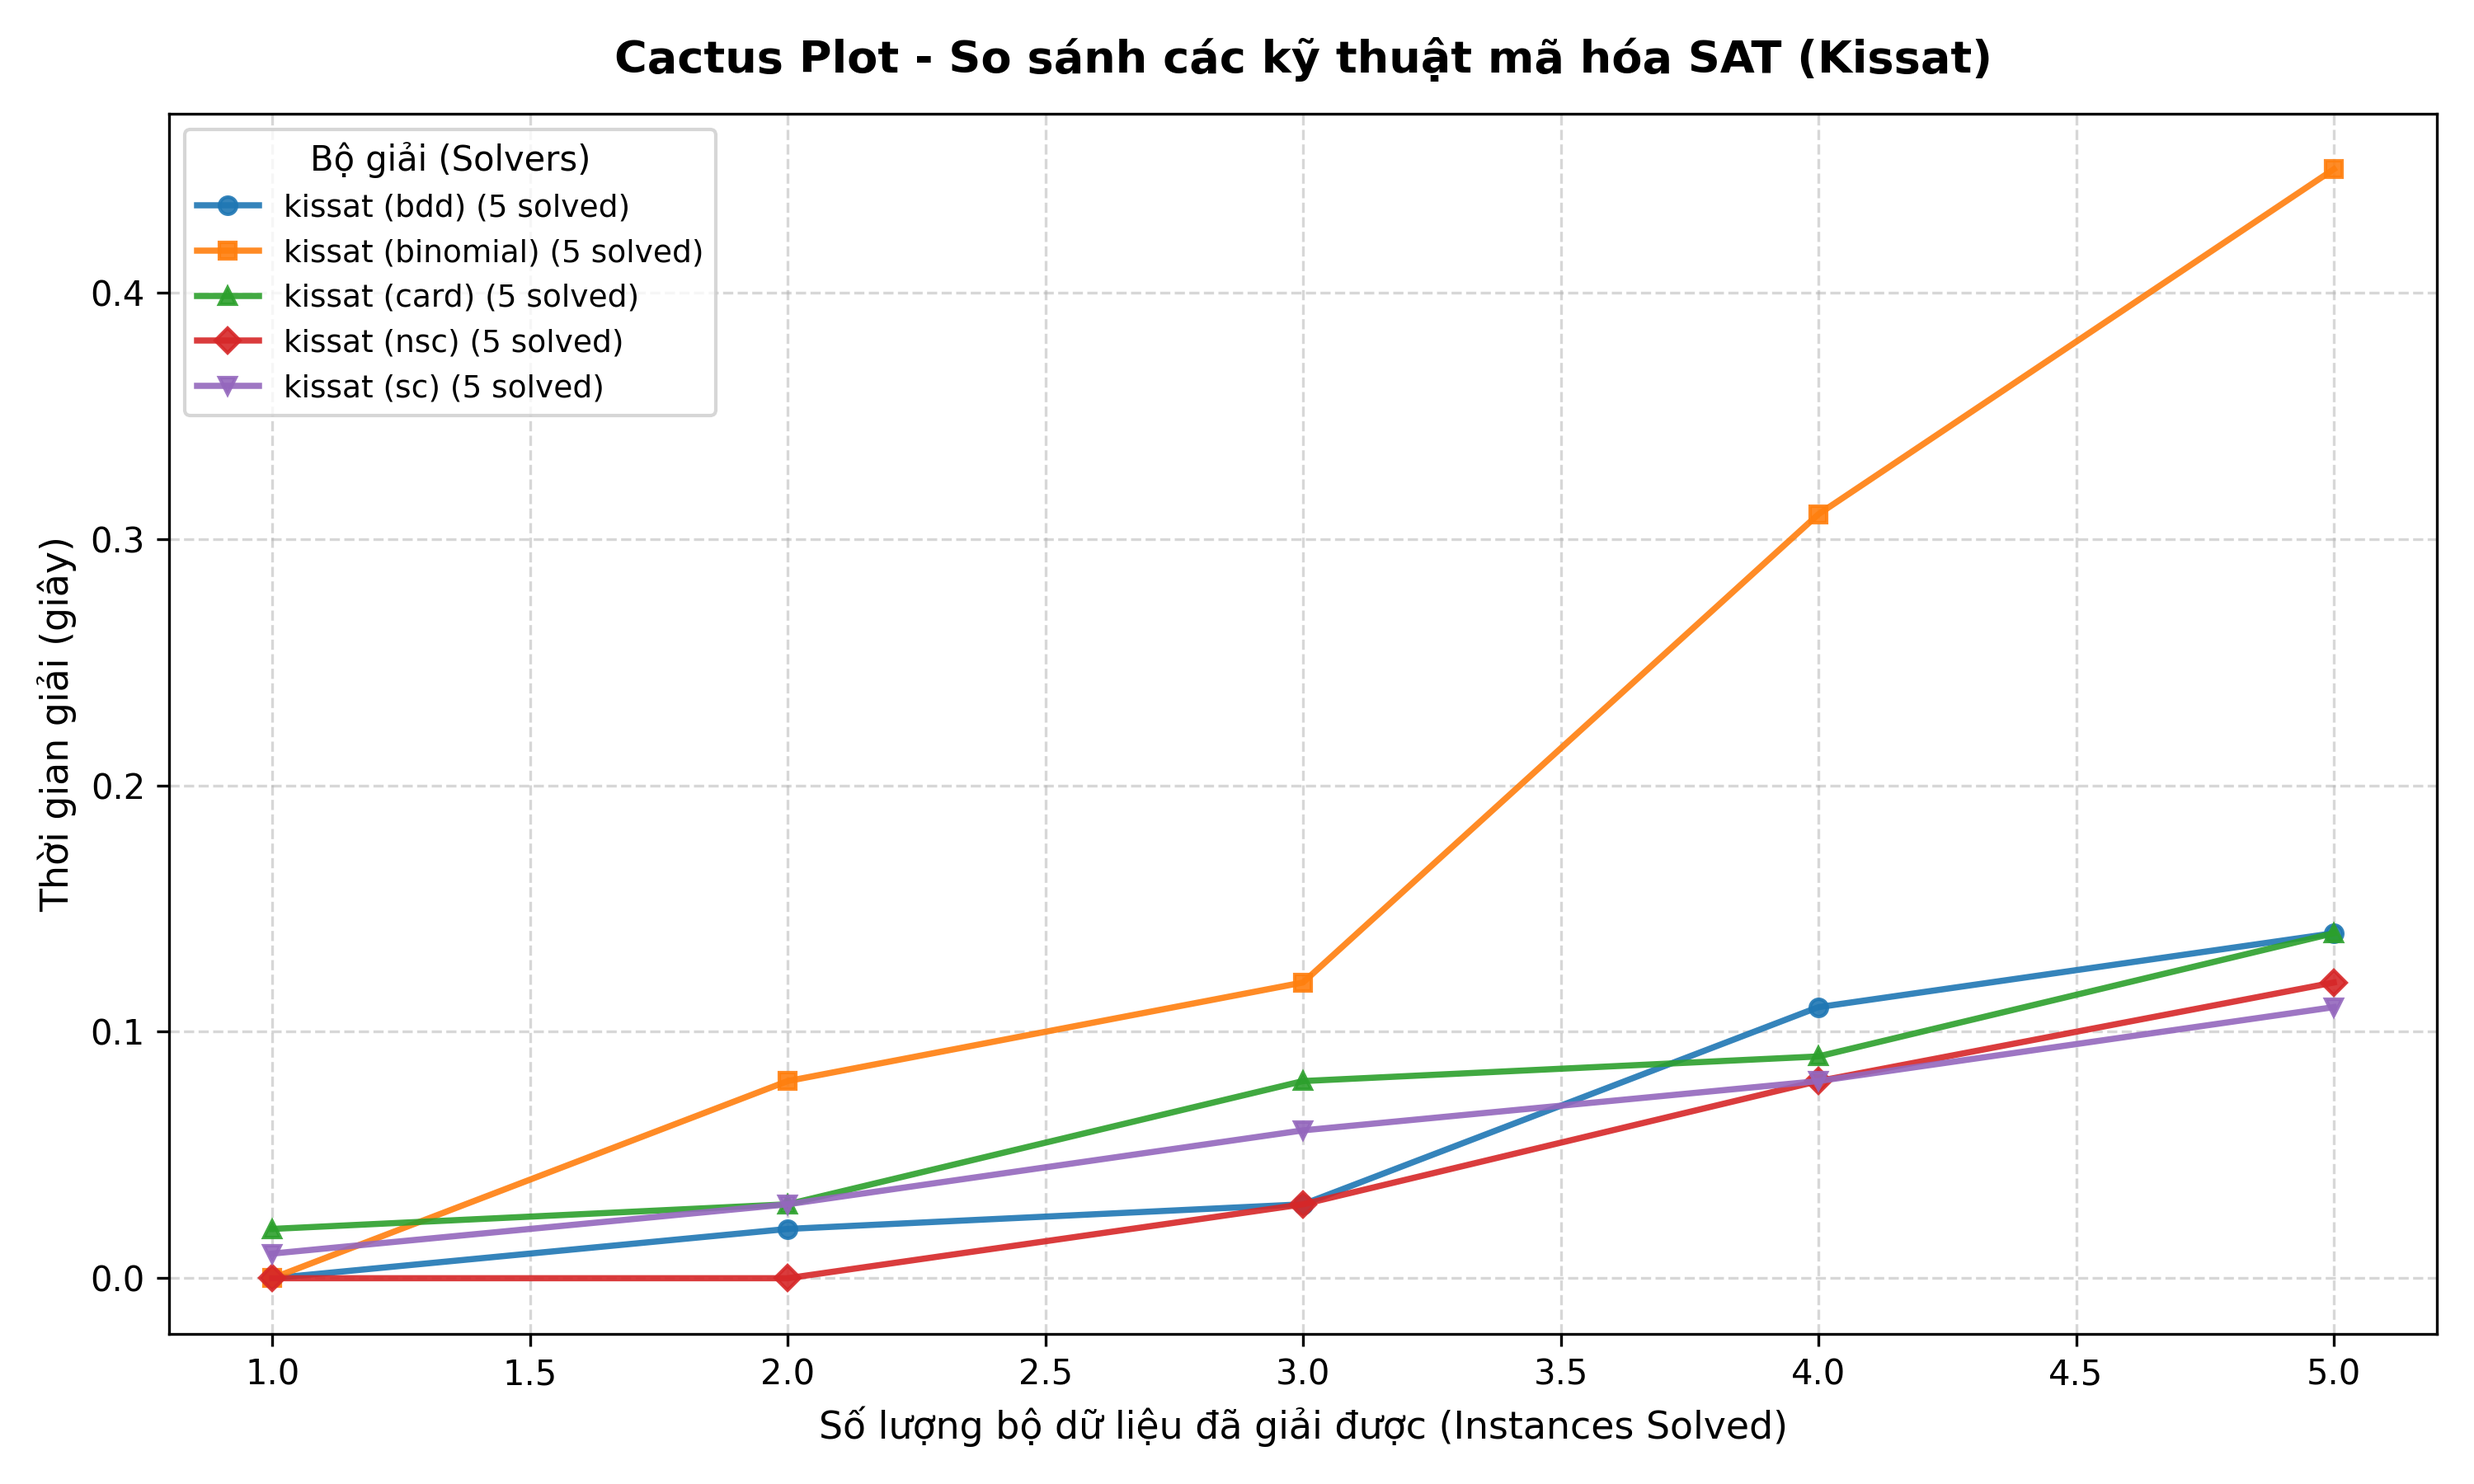
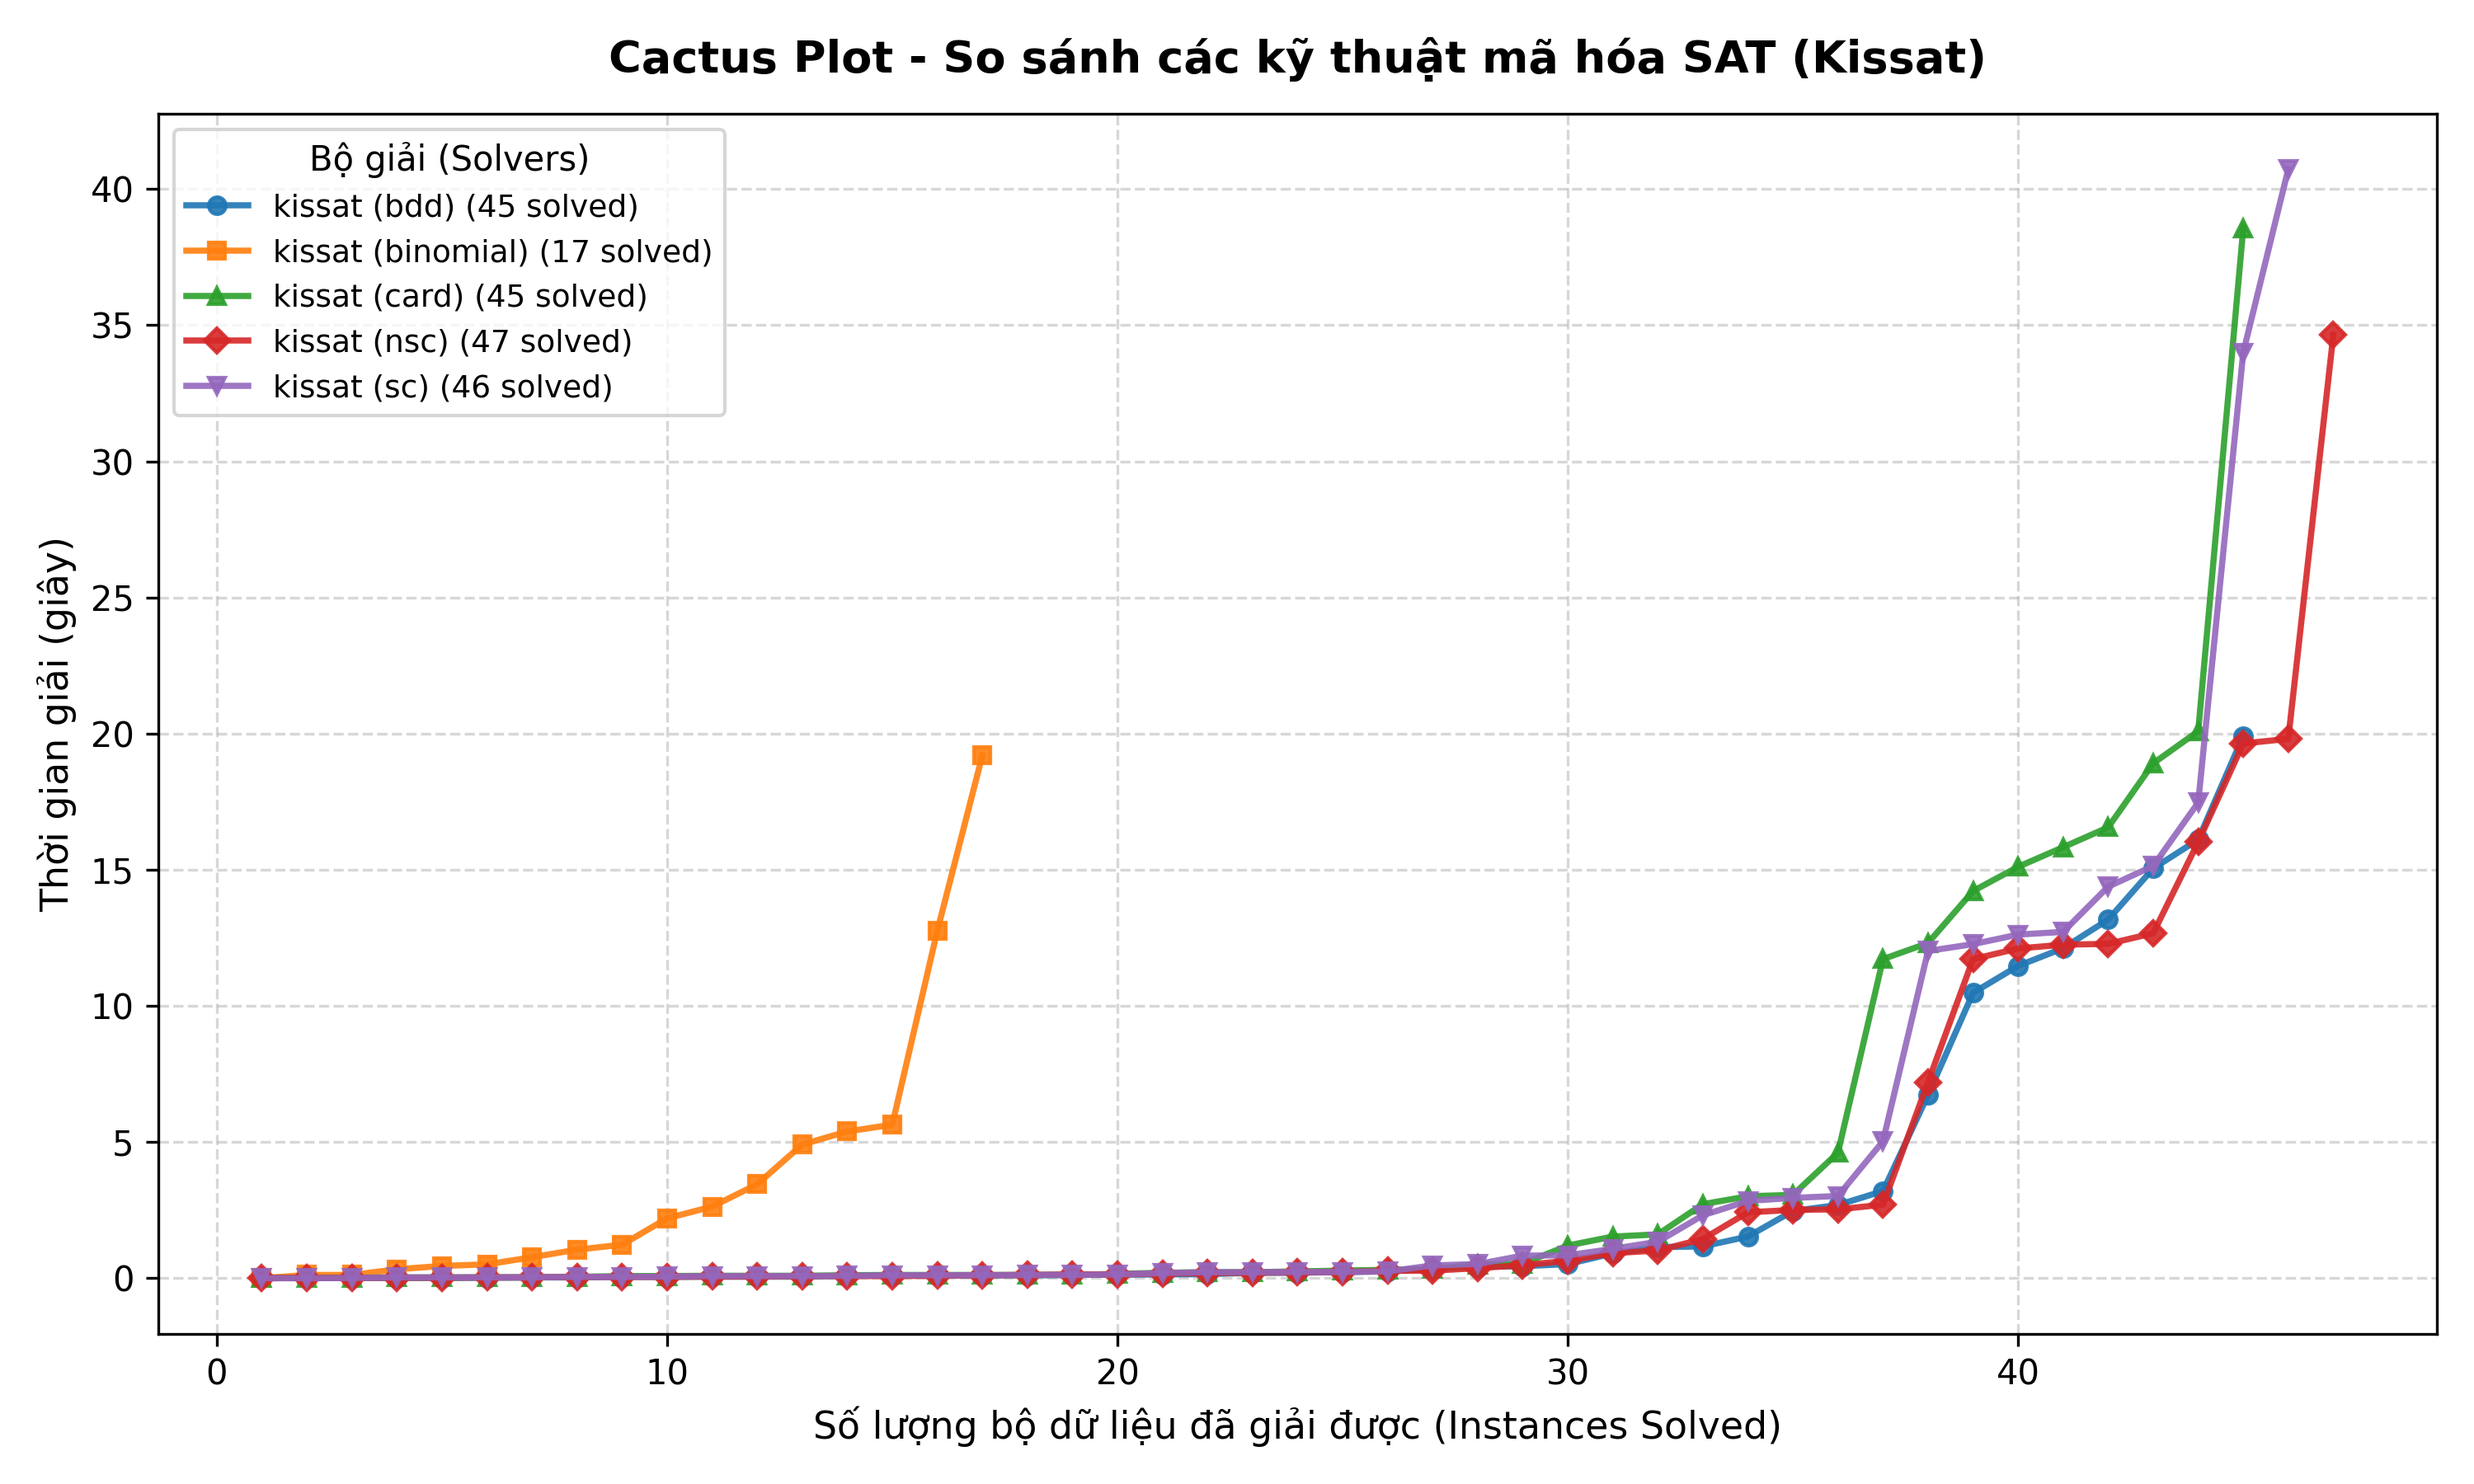
hoàn thiện biểu đồ

diff --git a/benchmark/benchmark_all.py b/benchmark/benchmark_all.py
@@ -32,9 +32,13 @@ def read_and_extract(filepath: Path, is_sat: bool = False) -> list[dict]:
     with open(filepath, "r", encoding="utf-8", newline="") as f:
         reader = csv.DictReader(f)
         for row in reader:
+            # Bỏ qua các dòng trống hoàn toàn nếu có
+            if not row.get("instance") or not row.get("g"):
+                continue
+
             solver_name = row["solver"].strip()
 
-            # Với file SAT, gắn thêm tên bộ mã hóa (c2_encoding) để phân biệt các biến thể kissat
+            # Với file SAT, gắn thêm tên bộ mã hóa (c2_encoding) để phân biệt các biến thể
             if is_sat and row.get("c2_encoding"):
                 c2_enc = row["c2_encoding"].strip()
                 solver_name = f"{solver_name} ({c2_enc})"
@@ -43,6 +47,15 @@ def read_and_extract(filepath: Path, is_sat: bool = False) -> list[dict]:
             p_val = int(row["p"])
             w_val = int(row["w"])
 
+            # Xử lý an toàn khi cột solve_time bị rỗng ('') hoặc None
+            raw_time = (row.get("solve_time") or "").strip()
+            if raw_time == "":
+                # Nếu là file SAT bị timeout và có cột timeout/total_time thì lấy dự phòng, ngược lại gán 0.0
+                fallback_time = (row.get("total_time") or row.get("timeout") or "0.0").strip()
+                solve_time_val = float(fallback_time) if fallback_time else 0.0
+            else:
+                solve_time_val = float(raw_time)
+
             rows.append(
                 {
                     "instance": row["instance"].strip(),
@@ -50,8 +63,8 @@ def read_and_extract(filepath: Path, is_sat: bool = False) -> list[dict]:
                     "p": p_val,
                     "w": w_val,
                     "solver": solver_name,
-                    "status": normalize_status(row["status"]),
-                    "solve_time": float(row["solve_time"]),
+                    "status": normalize_status(row.get("status", "UNKNOWN")),
+                    "solve_time": solve_time_val,
                 }
             )
     return rows
